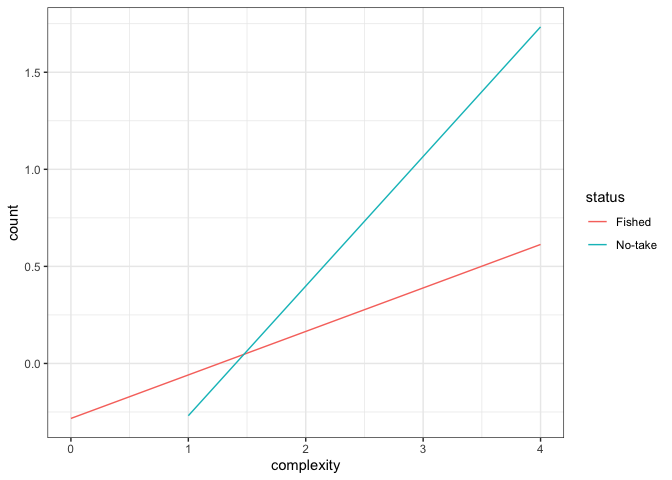
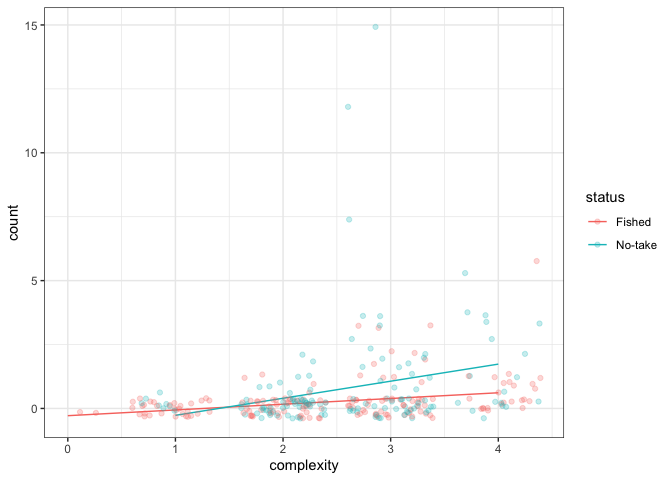
lobster

diff --git a/4_lobster-density_advanced-plots.md b/4_lobster-density_advanced-plots.md
@@ -365,6 +365,7 @@ glimpse(dat)
 ``` r
 ggplot(dat%>%filter(size.class=="legal"&year=="2021"), aes(x=complexity, y=count,colour=status)) + 
   geom_smooth(method=lm, size=0.5,se=F)+
+  geom_jitter(alpha=0.25)+
   theme_bw()
 ```
 
